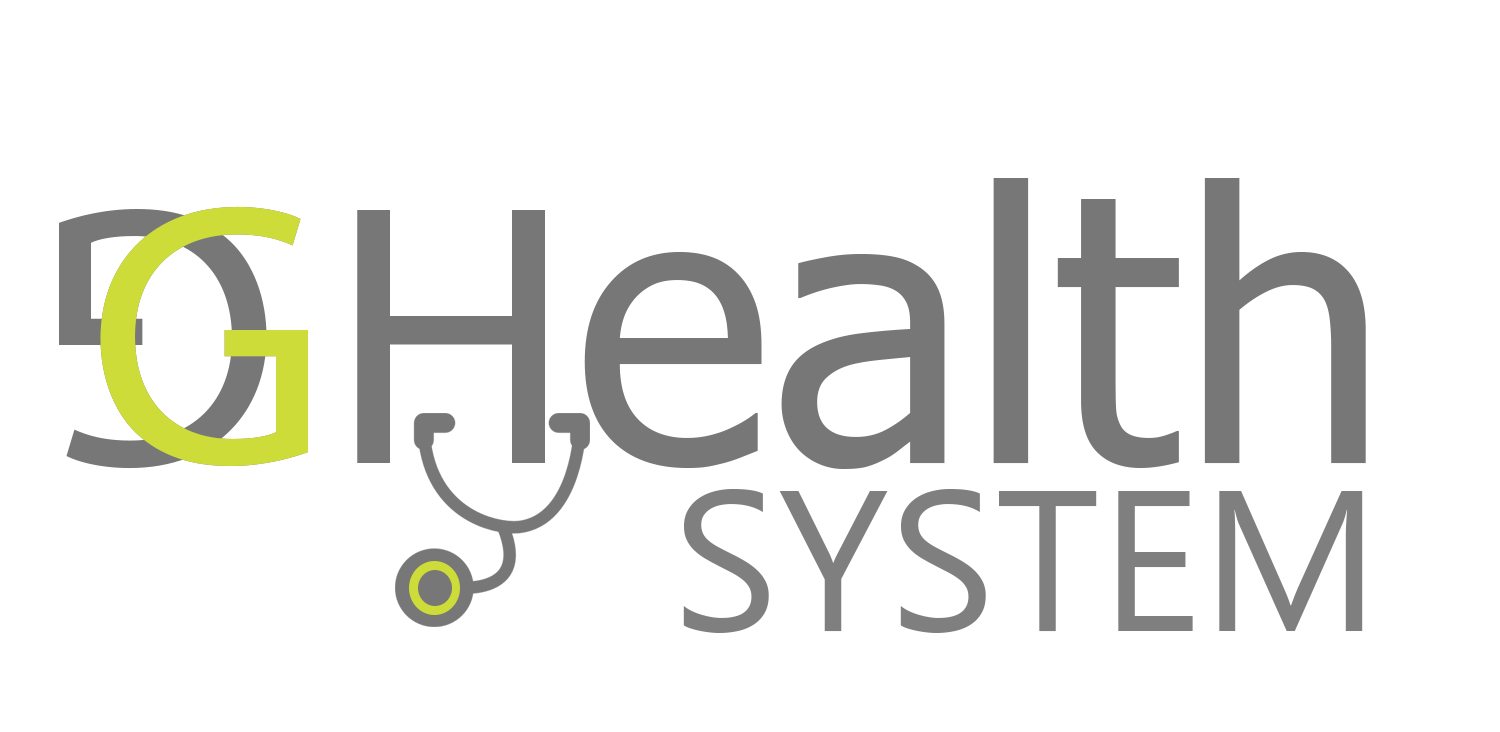
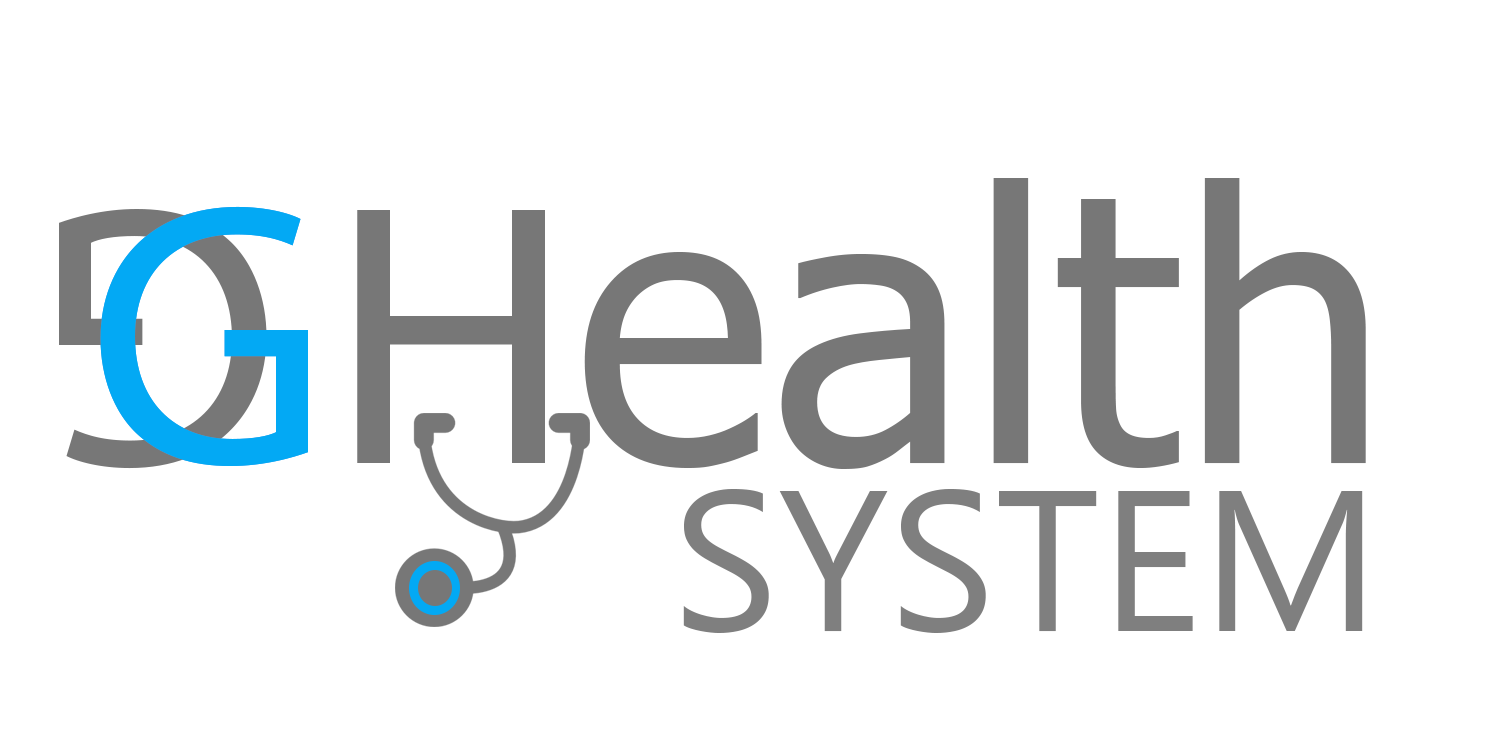
return to prev design

Changed region(s): [[0.0613, 0.2705, 0.2147, 0.6612], [0.276, 0.7514, 0.3067, 0.8415]]

diff --git a/GHealth-Java/src/client/control/ClientDetailsController.java b/GHealth-Java/src/client/control/ClientDetailsController.java
@@ -25,7 +25,6 @@ import javafx.scene.control.TextField;
 public class ClientDetailsController implements IController, Initializable{
 	
 	//FXML Components
-	/*
 	@FXML private Button dispLogoutBtn;
 	@FXML private Button createAppointmentBtn;
 	@FXML private Button cancelAppointmentBtn;
@@ -36,33 +35,8 @@ public class ClientDetailsController implements IController, Initializable{
 	@FXML private Button SpCreateRefernceBtn;
 	@FXML private Button SpRecordAppointmentBtn;
 	@FXML private Button SpReportMissingBtn;
-	*/
-	
-	@FXML private JFXButton dispLogoutBtn;
-	@FXML private JFXButton createAppointmentBtn;
-	@FXML private JFXButton cancelAppointmentBtn;
-	@FXML private JFXButton dispCreateClientBtn;
-	@FXML private JFXButton SpViewHistoryBtn;
-	@FXML private JFXButton SpEndTreatmentBtn;
-	@FXML private JFXButton SpViewExaminationsBtn;
-	@FXML private JFXButton SpCreateRefernceBtn;
-	@FXML private JFXButton SpRecordAppointmentBtn;
-	@FXML private JFXButton SpReportMissingBtn;
-	@FXML private JFXButton removeBtn;
-	
-	@FXML private JFXTextField dispClientIDTxt;
-	@FXML private JFXTextField fieldClientID;
-	@FXML private JFXTextField fieldClientClinic;
-	@FXML private JFXTextField fieldClientName;
-	@FXML private JFXTextField fieldClientFamily;
-	@FXML private JFXTextField fieldClientJoin;
-	@FXML private JFXTextField fieldClientAddress;
-	@FXML private JFXTextField fieldClientPhone;
-	@FXML private JFXTextField fieldClientEmail;
-	@FXML private JFXTextField SpClientIDTxt;
-	
-	/*
-	
+	@FXML private Button removeBtn;
+
 	@FXML private TextField dispClientIDTxt;
 	@FXML private TextField fieldClientID;
 	@FXML private TextField fieldClientClinic;
@@ -73,7 +47,6 @@ public class ClientDetailsController implements IController, Initializable{
 	@FXML private TextField fieldClientPhone;
 	@FXML private TextField fieldClientEmail;
 	@FXML private TextField SpClientIDTxt;
-	//@FXML private Button removeBtn;*/
 
 	
 	//Members

diff --git a/GHealth-Java/src/client/boundry/DispatcherUI.java b/GHealth-Java/src/client/boundry/DispatcherUI.java
@@ -66,7 +66,7 @@ public class DispatcherUI implements IUi{
 								URL url_32 = LoginUI.class.getResource("/img/icon_32.png");
 								stage.getIcons().add(new Image(url_32.toString()));
 					      Scene scene = new Scene(root);
-					    //  scene.getStylesheets().add("client/boundry/css/Style.css");
+					      scene.getStylesheets().add("client/boundry/css/Style.css");
 					      stage.setScene(scene); 
 					      stage.setResizable(false);
 					      stage.initStyle(StageStyle.UNDECORATED);
